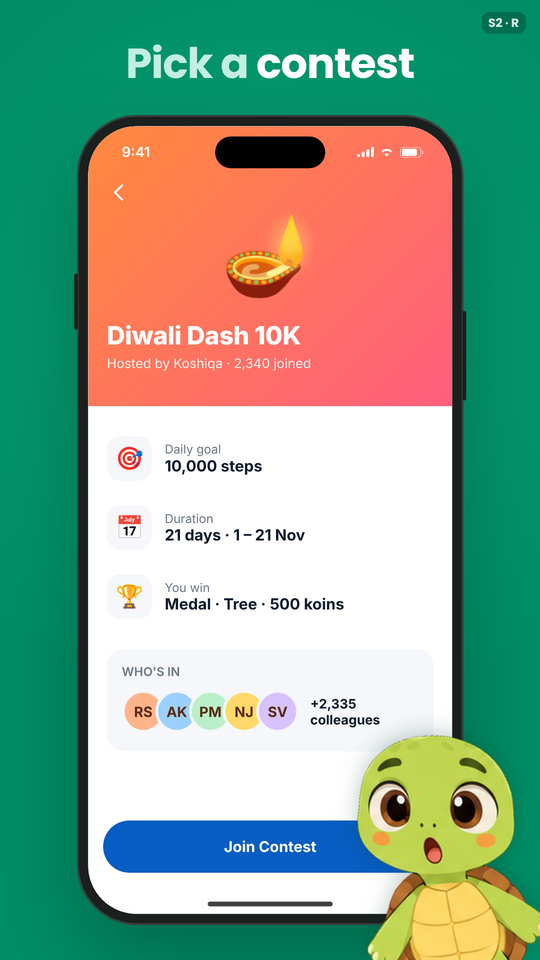
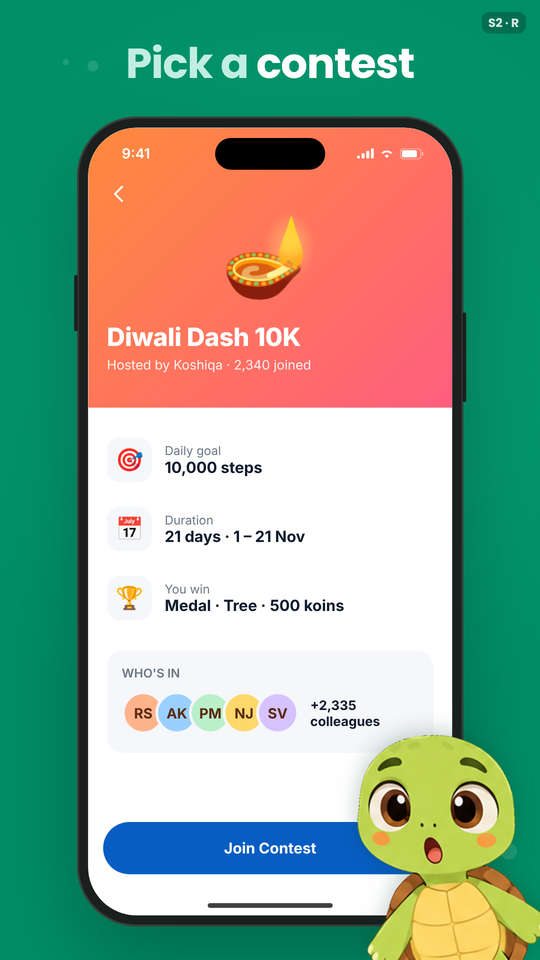
Layout stills and grid re-rendered with the sharper Torty; Video 1 QA logged
Claude-Session: https://claude.ai/code/session_01Rfr4fKPBLrZ9k637s35Lmf

diff --git a/revisions.md b/revisions.md
@@ -30,7 +30,7 @@ Entry format:
   - **Hindi** (`rest-card-hi.ts`): left as it was; the English-only additions are filtered out. The renderer changes (whole-phone zoom, sharper Torty) apply to it too.
   - **Docs:** design.md 1.7 (F1 intro, E3 sections, whole-phone zoom, lead, titleAtWord, growAtWords, 8 Don'ts, open item for designer art); SCREENS.md (`lead`); skill update proposed.
 - **Why / decisions:** the opener's voice is kept, so it costs no credits; only the text and visuals follow it. Section 2 is left silent because no line was given for it. The illustration is a stand-in for designer art.
-- **Output:** `out/HV-RestCard.mp4`. Open items:
+- **Output:** `out/HV-RestCard.mp4` (94.9 s, −16.8 LUFS) + `out/HV-RestCard-qa.png`; LayoutSystem stills, `design/layout-system-grid.png` and `design/layouts/*` re-rendered with the sharper Torty. 95 s is over the 75 s explainer guideline (the new section lead-ins and the chat hold add ~6 s). Open items:
   - Tara's take of the 5 lines (after the pronunciation voice note); the Piper placeholders on the two section cards are replaced then.
   - A line for section 2 if wanted.
   - Designer art for the woman and higher-res Torty art.
